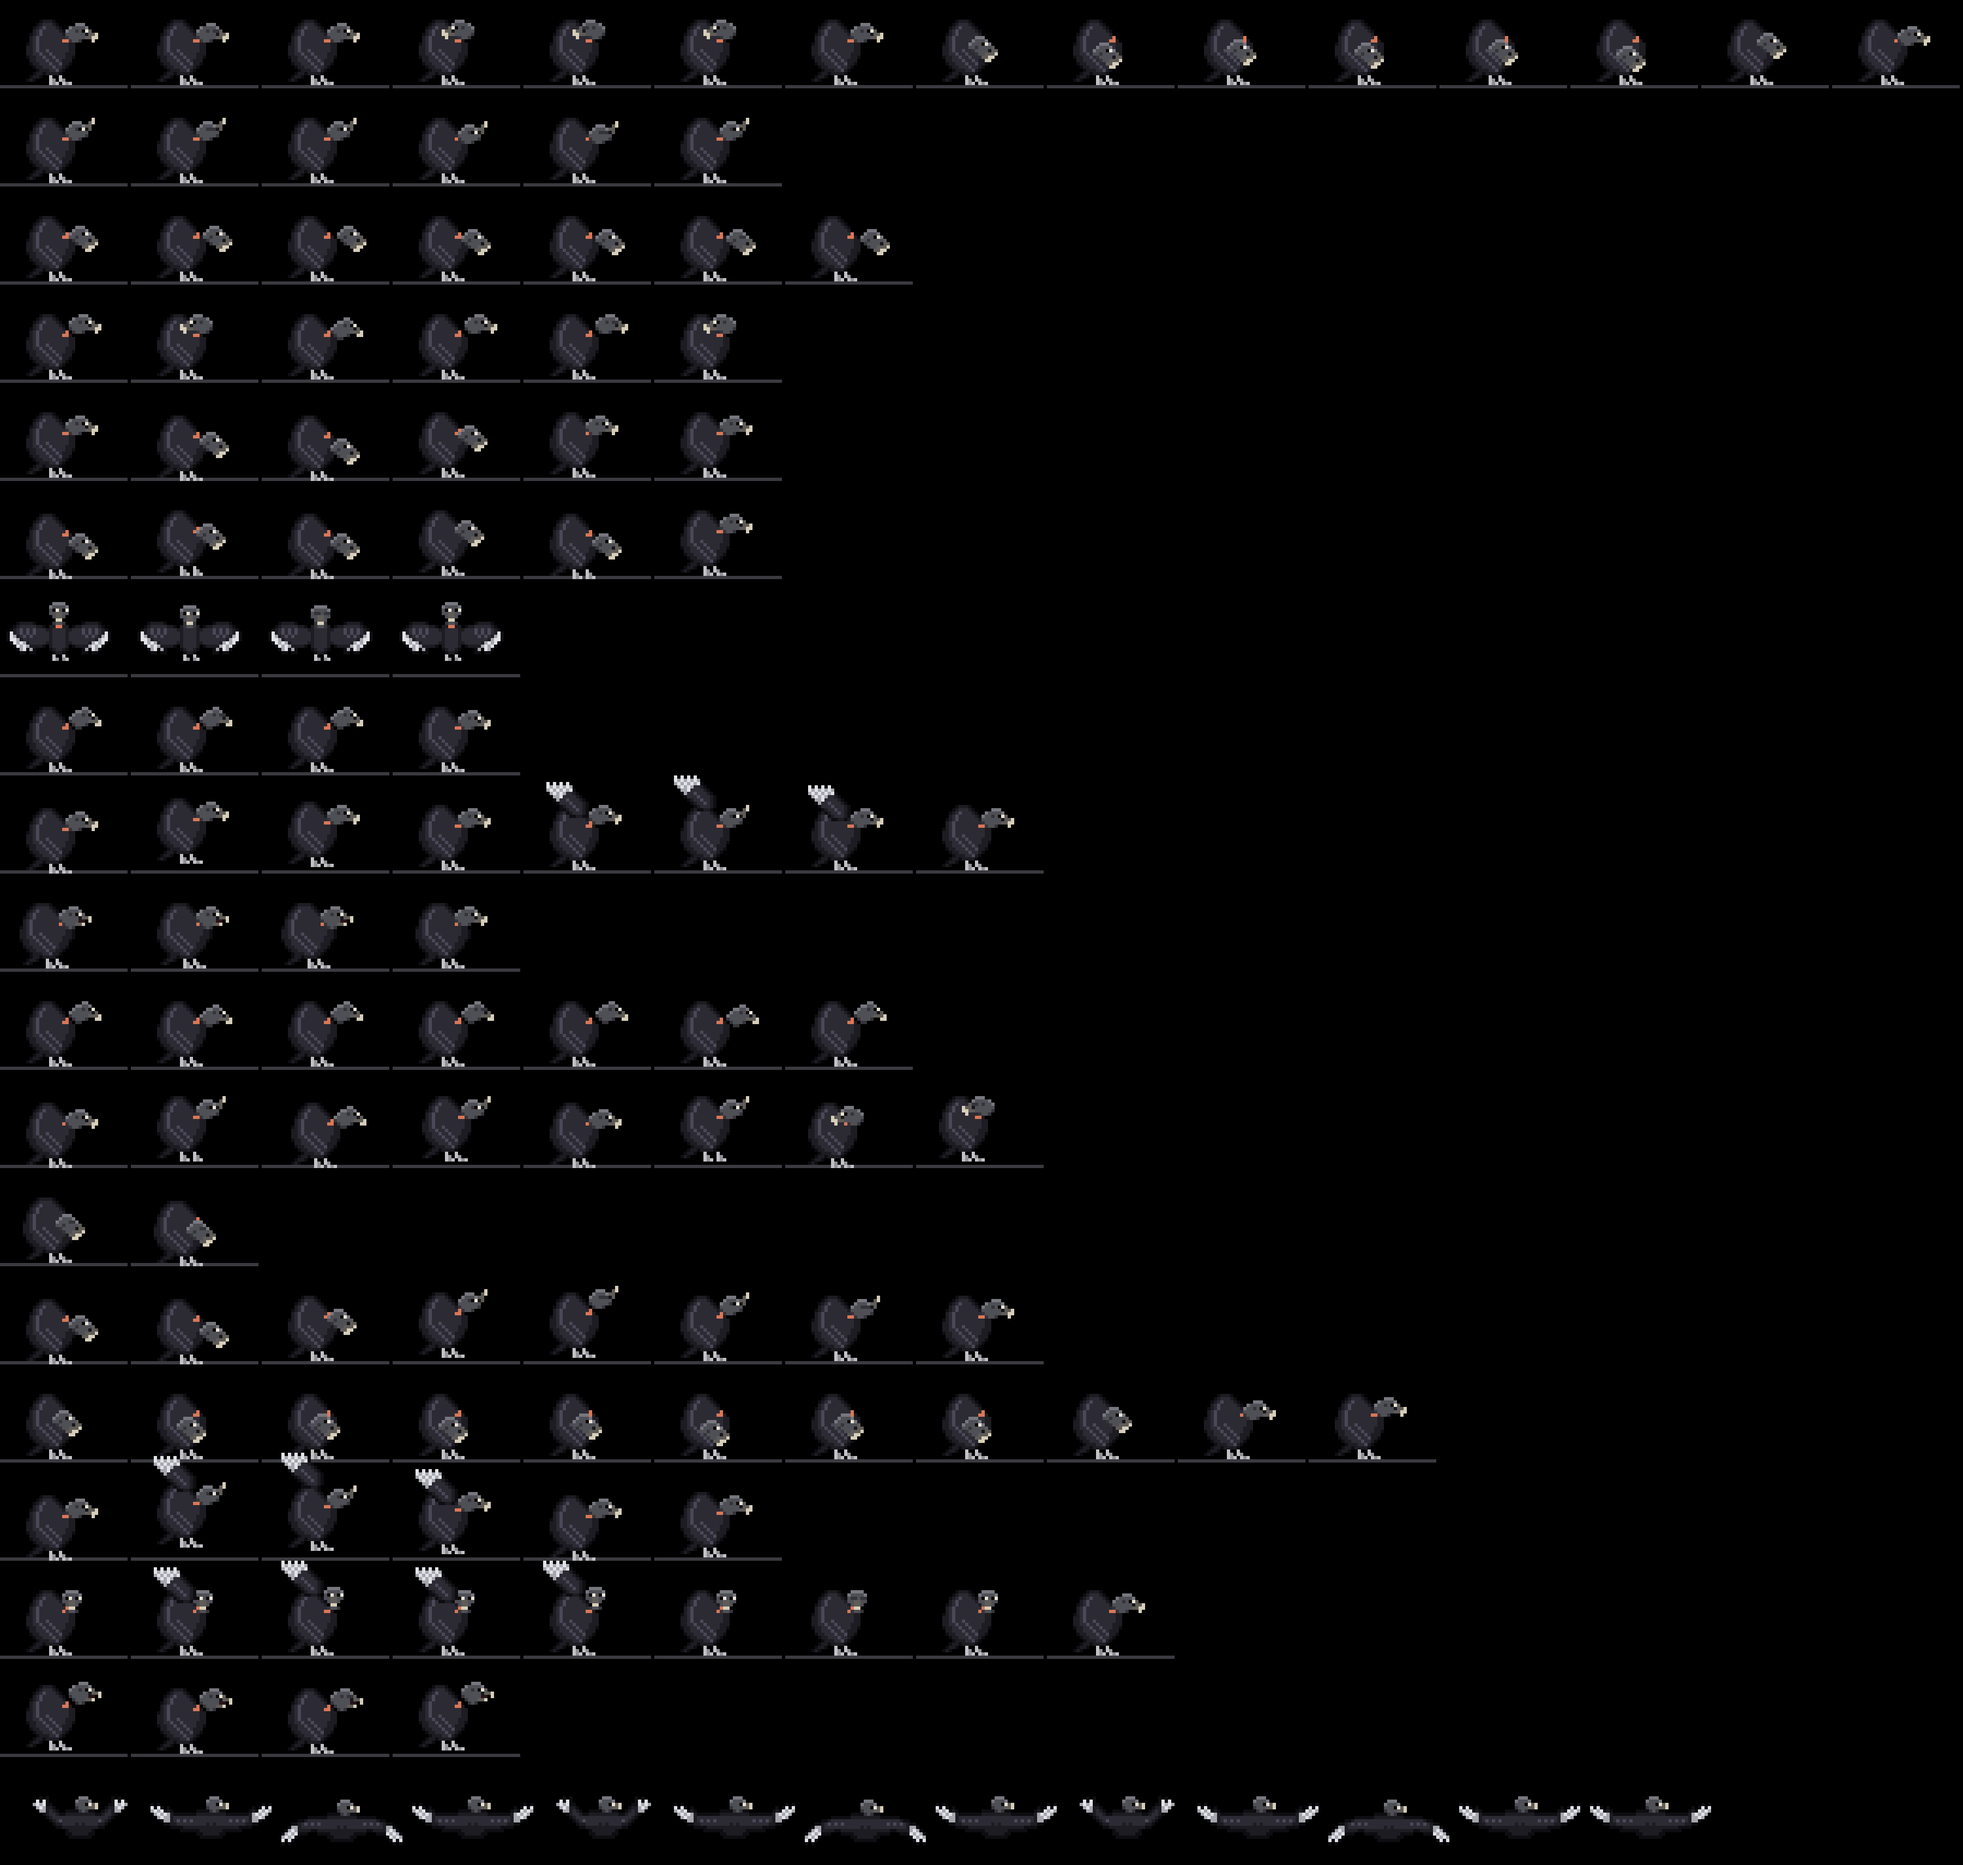
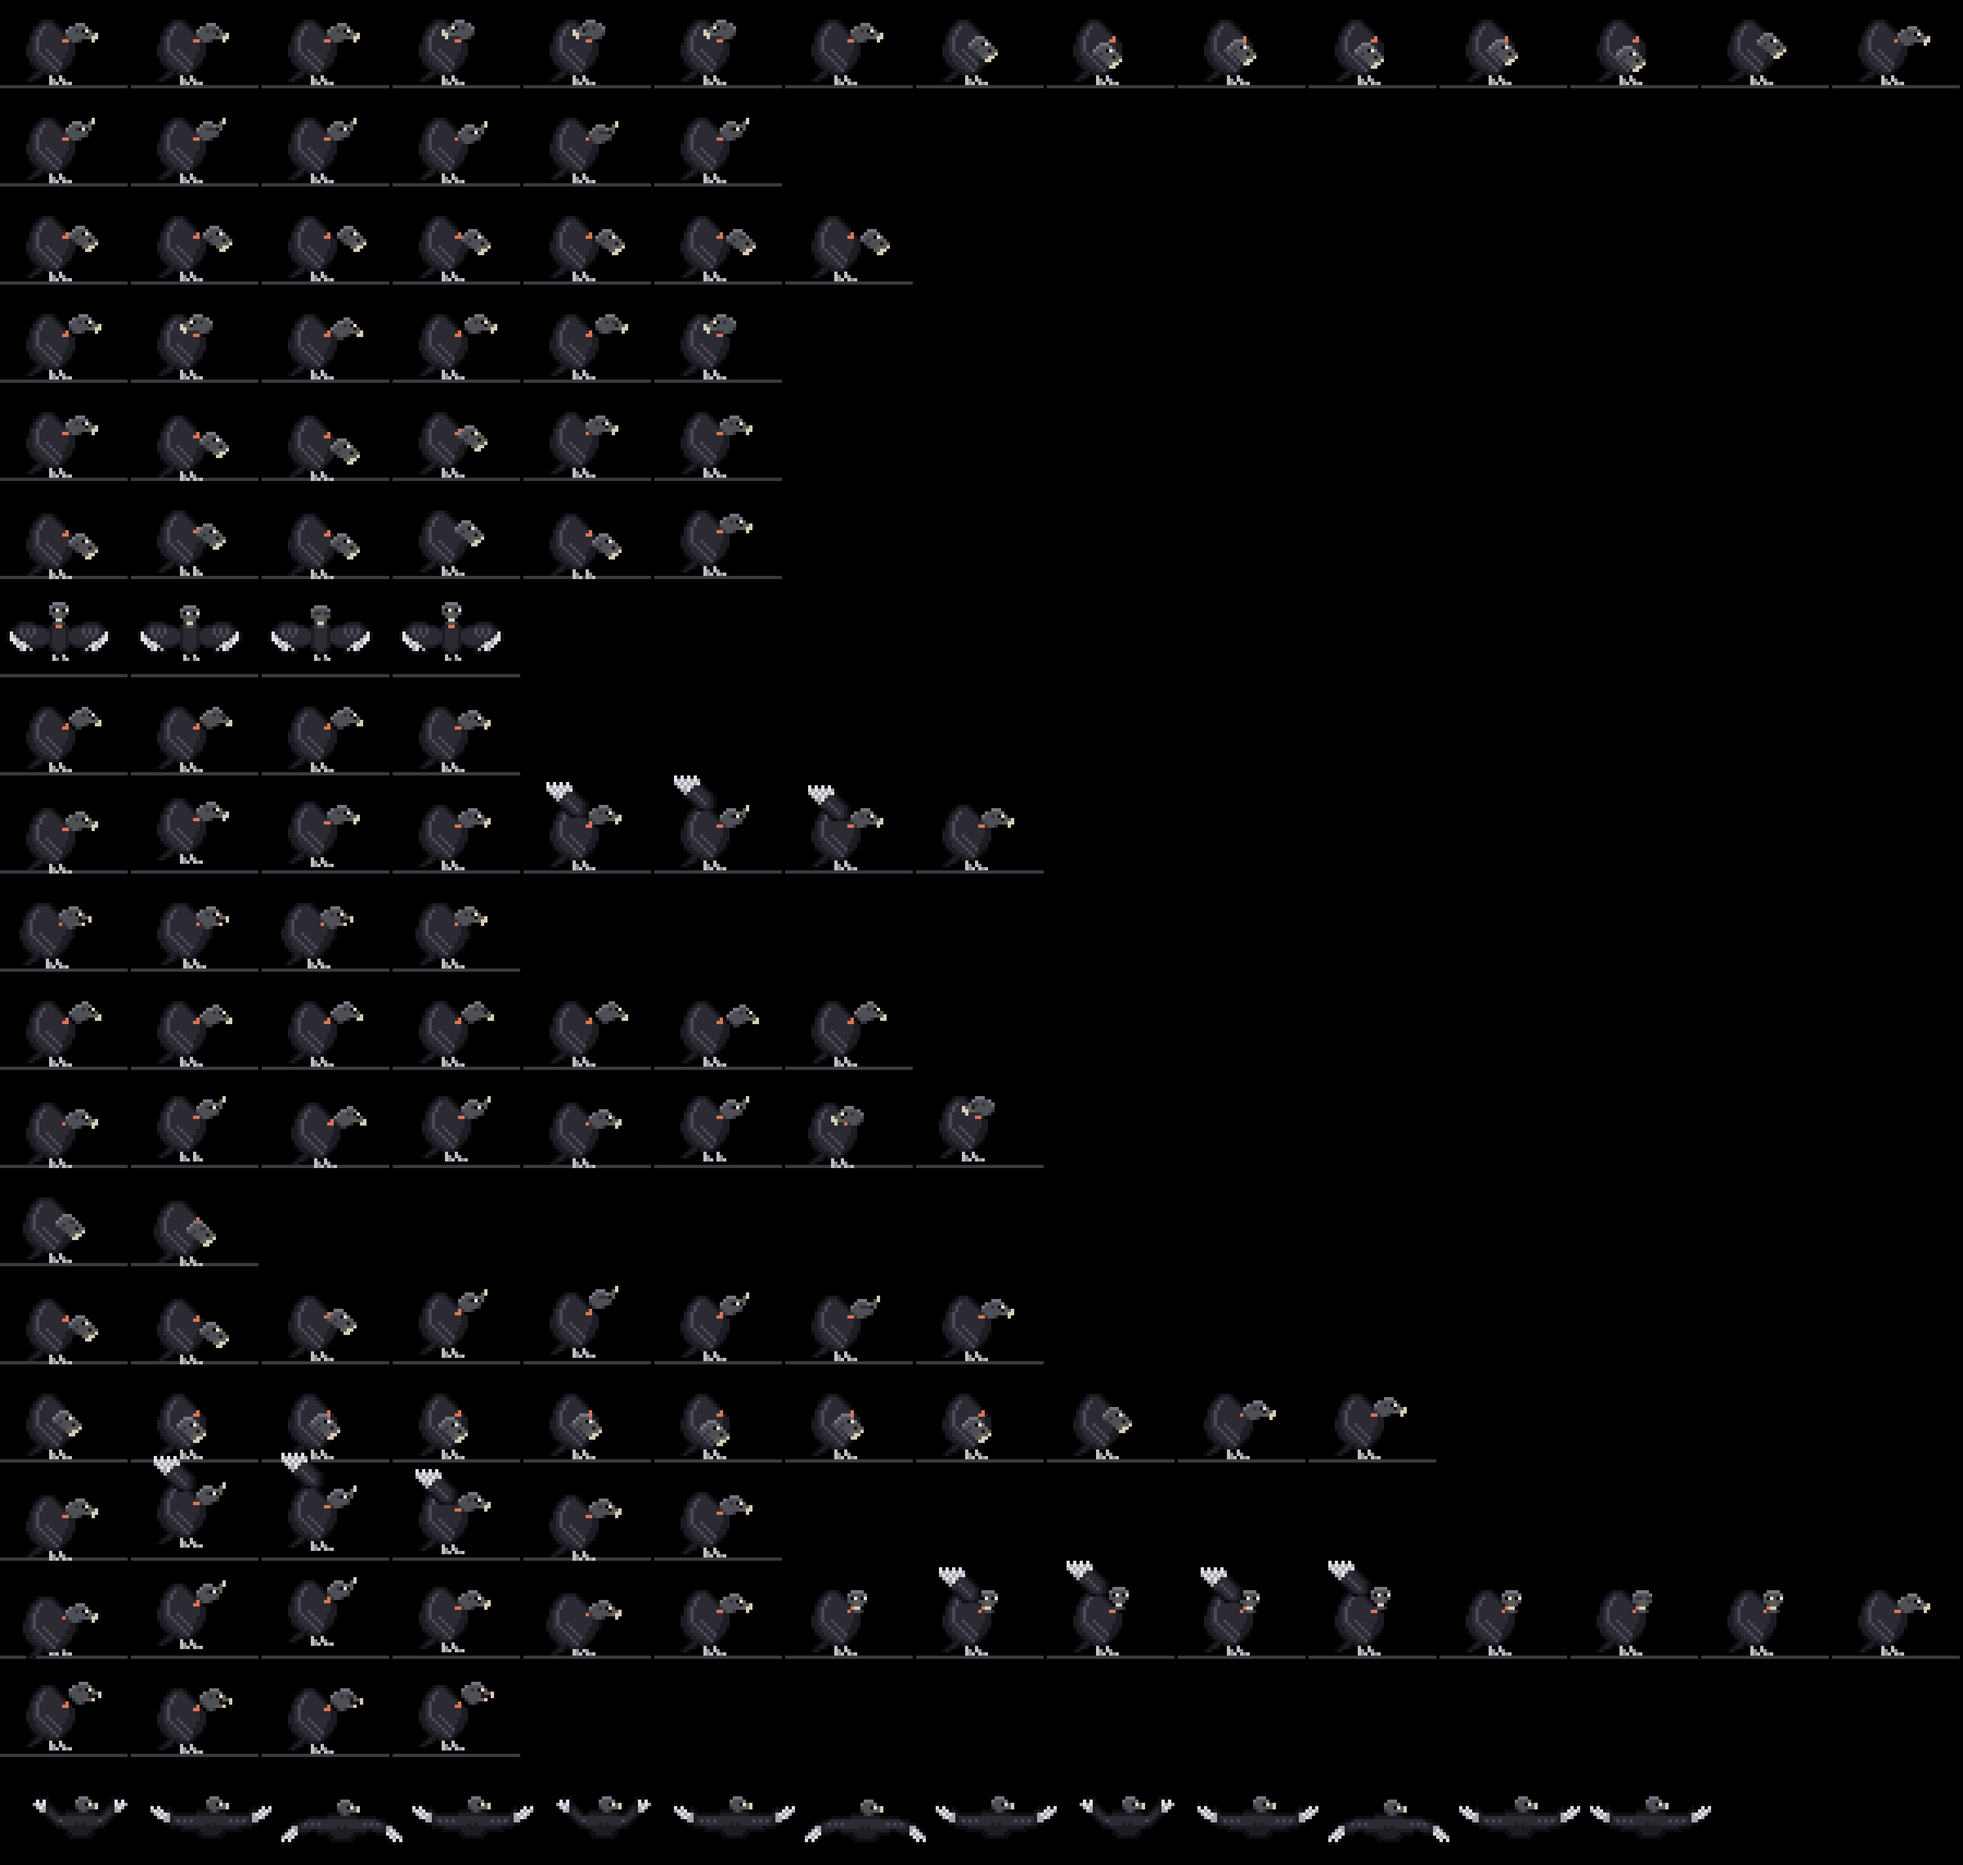
feat(zeca): a squash-and-bounce landing in the hello
The start-up hello now opens with a landing squash (fluffed body sunk onto
bent legs that stay on the wire), a bounce up stretched tall and a softer
second landing, then the head turn and the wave. Drawn with existing parts
only, so every species rig and every seasonal look applies unchanged; a
spec checks it for all of them. The drop-in comes straight down so the
touch-down flows into the squash instead of turning and hopping first.

clip-hello.png is the only baseline refreshed: the frame at t=1500 moved.

Claude-Session: https://claude.ai/code/session_01B82J83zXwVg3PjMwFPYJY5

diff --git a/tests/visual/hello.spec.ts b/tests/visual/hello.spec.ts
@@ -1,0 +1,32 @@
+// The hello opens with a landing squash and a bounce. It is drawn with Zeca's own parts, so every
+// species rig and every seasonal look must still have them, and the squash must keep the feet on
+// the wire.
+import { expect, test } from "@playwright/test";
+
+test("the hello's landing squash works for every species and look", async ({ page }) => {
+  await page.goto("/lab/?still=1");
+  const problems = await page.evaluate(async () => {
+    const { speciesSet, SPECIES } = await import("/src/character/flock/index.ts" as string);
+    const { dress, LOOK_IDS } = await import("/src/character/looks.ts" as string);
+    const out: string[] = [];
+    for (const s of SPECIES)
+      for (const look of [null, ...LOOK_IDS]) {
+        const set = dress(speciesSet(s.id), look);
+        const frames = set.clips.hello.frames;
+        const at = `${s.id}/${look ?? "plain"}`;
+        for (const f of frames)
+          for (const [p] of f.layers) if (!set.parts[p]) out.push(`${at}: no part ${p}`);
+        // The squash: the fluffed body sunk, its legs under it and where the resting legs are.
+        const [squash] = frames;
+        const rest = set.clips.idle.frames[0];
+        const legs = (f: typeof rest) => f.layers.find(([p]: [string]) => p === "legs");
+        const order = squash.layers.map(([p]: [string]) => p);
+        if (squash.dy <= 0 || order.indexOf("legs") > order.indexOf("body_puff")) out.push(`${at}: no squash`);
+        if (squash.dy + legs(squash)[2] !== rest.dy + legs(rest)[2]) out.push(`${at}: feet off the wire`);
+        // The bounce leaves the wire.
+        if (!frames.some((f: typeof rest) => f.dy < 0)) out.push(`${at}: no bounce`);
+      }
+    return out;
+  });
+  expect(problems).toEqual([]);
+});

diff --git a/ui/src/character/director.ts b/ui/src/character/director.ts
@@ -223,7 +223,9 @@ export class Bird {
   /** Comes down from above onto the perch, then plays `then` (a hello). */
   dropIn(now: number, then: string | null = null): void {
     const h = helpers(this.set, this.perch);
-    const above: Shot = { frame: { ms: 0, dx: 0, dy: 0, layers: [] }, x: h.homeX + 6 - flyW(this.set) / 2, y: -10, flip: false };
+    // Straight down: a landing from the right would turn and hop first, and the touch-down must
+    // flow into the clip (the hello opens with its landing squash).
+    const above: Shot = { frame: { ms: 0, dx: 0, dy: 0, layers: [] }, x: h.homeX - flyW(this.set) / 2, y: -10, flip: false };
     this.afterLanding = then;
     this.flyLegs(landing(this.set, this.perch, above, false), now);
   }

diff --git a/design/mascots/zeca/zeca.py b/design/mascots/zeca/zeca.py
@@ -243,6 +243,12 @@ def perch(head="head", hx=0, hy=0, body="body", legs="legs", dx=0, dy=0, under=(
 def f(ms, frame):
     return {**frame, "ms": ms}
 
+def crouch(sink, head="head", hx=0, hy=0, body="body_puff"):
+    """A landing squash: the body sinks `sink` rows, wider (fluffed), onto bent legs that stay on
+    the wire, drawn under it. Existing parts only, so every species rig and look applies."""
+    return {"dx": 0, "dy": sink, "layers": [["legs", FEET[0], FEET[1] - sink], [body, 0, 0],
+                                            ["band", BAND[0], BAND[1]], [head, HEAD[0] + hx, HEAD[1] + hy]]}
+
 CLIPS = {
   # Watching: long holds, a blink, a look back over the shoulder.
   "idle": {"loop": True, "frames": [
@@ -349,8 +355,13 @@ CLIPS = {
     f(140, perch("head", dy=-1, extra=[["wing_up", 1, -6]])),
     f(120, perch(dy=1)), f(500, perch()),
   ]},
-  # Hello: he turns his head to you and waves a wing.
+  # Hello: he lands with a squash, bounces up stretched tall, lands again softer, then turns his
+  # head to you and waves a wing.
   "hello": {"loop": False, "frames": [
+    f(90, crouch(2, hy=1)),
+    f(110, perch("head_up", hy=-2, dy=-2)), f(90, perch("head_up", hy=-2, dy=-3)),
+    f(80, perch("head", dy=-1)),
+    f(90, crouch(1, hy=1)), f(120, perch()),
     f(320, perch("head_front", hx=-2, hy=-1)),
     f(200, perch("head_front", hx=-2, hy=-1, extra=[["wing_up", 1, -7]])),
     f(200, perch("head_front", hx=-2, hy=-2, extra=[["wing_up", 0, -9]])),

diff --git a/docs/ANIMATIONS.md b/docs/ANIMATIONS.md
@@ -44,7 +44,7 @@ real black vulture does, so the bird reads as a vulture before it reads as a sta
 | `gape` | a file dragged over the island | Head up, bill open, waiting for it to drop in |
 | `preen` | the pointer resting on Zeca | A bout of grooming, head into the wing |
 | `startle` | a click on Zeca | A jump with the wings flung up, head high |
-| `hello` | the app starting | He turns his head to you and waves a wing |
+| `hello` | the app starting | A landing squash, a bounce up stretched tall and a softer landing; then he turns his head to you and waves a wing |
 | `fly` | web | A full sortie: take off, flap-flap-flap-glide out, glide home, flare, land, turn |
 
 The `idle` clip includes a preening bout (head into the wing, quick nibbles), and `done` stretches
@@ -54,8 +54,10 @@ one wing over the back before the species' signature.
 
 On the focus card and in the chat, a resting Zeca looks toward the pointer: over his shoulder when it
 is behind him, at you (with a blink) when it is on him. Rest it on him and he preens; click him and he
-startles; three clicks in a row and he puffs up and hisses. When the app starts he drops onto his
-wire and waves hello, and the island folds once he is done. With reduced motion there is no hello.
+startles; three clicks in a row and he puffs up and hisses. When the app starts he drops straight
+down onto his wire, lands with a squash (fluffed, sunk onto bent legs) and a bounce, and waves hello;
+the island folds once he is done. The squash is drawn with his own parts, so every species and every
+seasonal look lands the same way. With reduced motion there is no hello.
 
 ## Marks over the head
 
